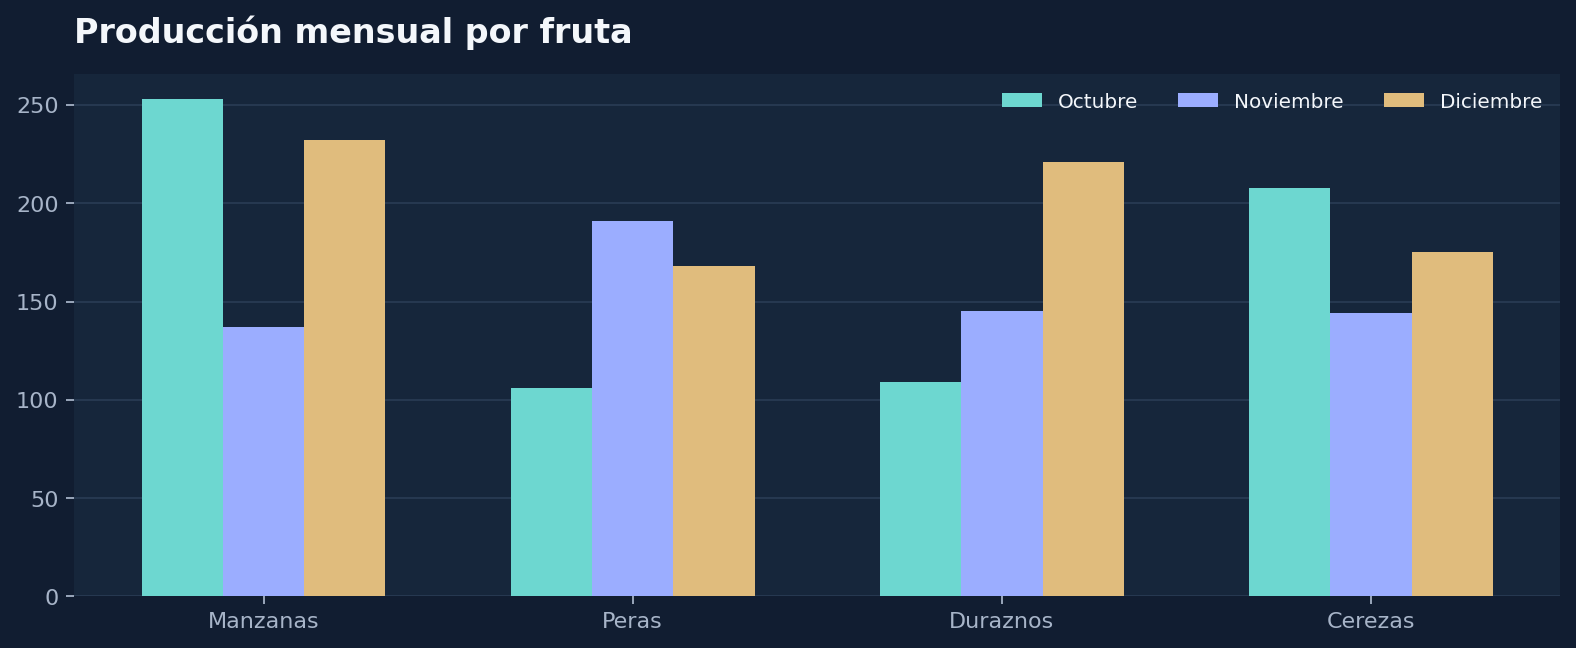
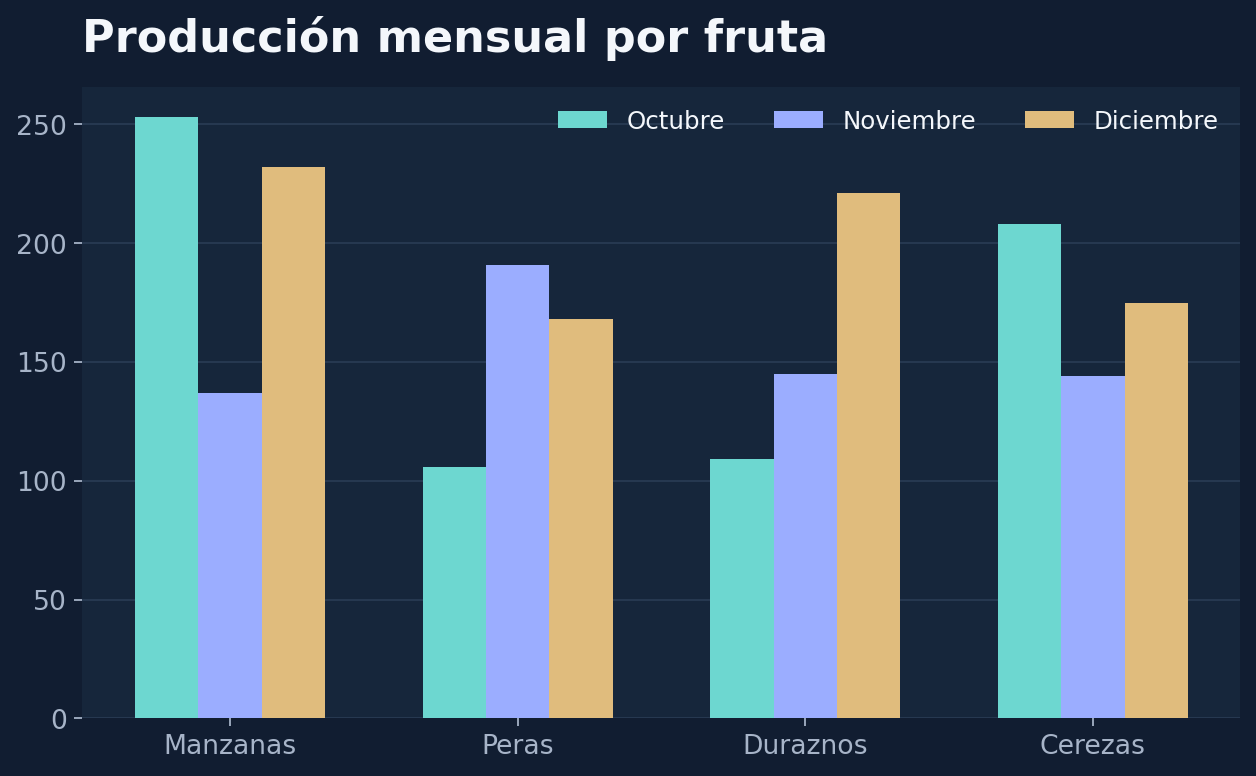
Mejora legibilidad de previews académicos

diff --git a/Practicas/index.html b/Practicas/index.html
@@ -23,8 +23,8 @@
     h2 { margin: 0; font-size: clamp(1.45rem, 2vw, 1.9rem); letter-spacing: -.025em; }
     .section-heading p { max-width: 62ch; margin: .5rem 0 0; color: var(--muted); font-size: .96rem; }
     .grid { display: grid; grid-template-columns: repeat(2, minmax(0, 1fr)); gap: 1rem; }
-    .card { display: flex; min-height: 410px; flex-direction: column; border: 1px solid var(--line); border-radius: 20px; padding: clamp(1.25rem, 2.4vw, 1.8rem); background: linear-gradient(145deg, rgba(17, 29, 49, .95), rgba(13, 23, 40, .86)); }
-    .preview { width: 100%; aspect-ratio: 2.35 / 1; margin: 0 0 1.2rem; border: 1px solid rgba(109, 215, 208, .2); border-radius: 12px; object-fit: cover; background: #0d1728; }
+    .card { display: flex; min-height: 0; flex-direction: column; border: 1px solid var(--line); border-radius: 20px; padding: clamp(1.25rem, 2.4vw, 1.8rem); background: linear-gradient(145deg, rgba(17, 29, 49, .95), rgba(13, 23, 40, .86)); }
+    .preview { width: 100%; aspect-ratio: 1.6 / 1; margin: 0 0 1.2rem; border: 1px solid rgba(109, 215, 208, .2); border-radius: 12px; object-fit: cover; background: #0d1728; }
     .number { display: inline-grid; width: 2.35rem; height: 2.35rem; place-items: center; margin-bottom: .9rem; border-radius: .65rem; background: var(--accent); color: #08202a; font-size: .78rem; font-weight: 900; }
     .card h3 { max-width: 24ch; margin: 0 0 .65rem; font-size: clamp(1.2rem, 2vw, 1.5rem); line-height: 1.15; letter-spacing: -.025em; }
     .card > p { margin: 0; color: var(--muted); font-size: .96rem; }
